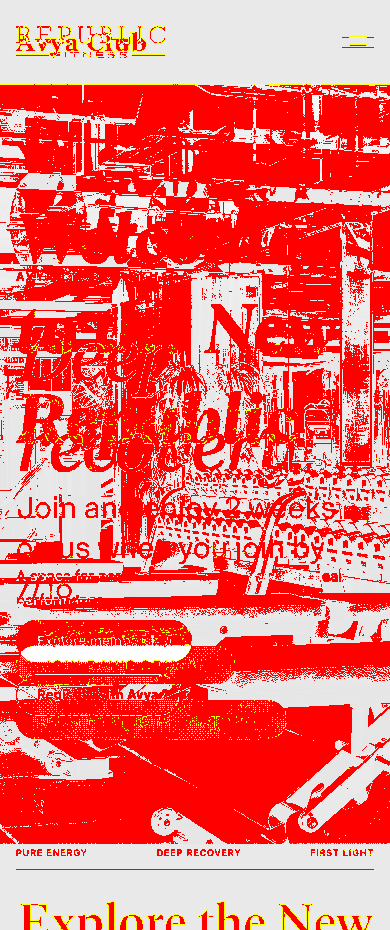
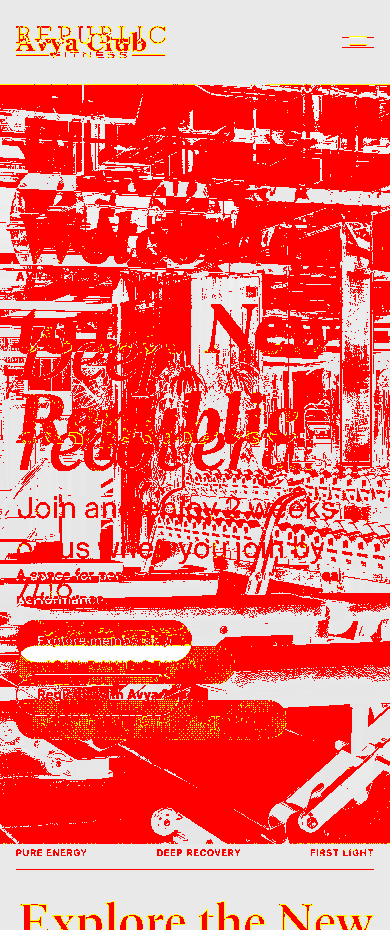
avya-club: step 8 — prepare preview and review handoff

diff --git a/sites/avya-club/qa/final-report.md b/sites/avya-club/qa/final-report.md
@@ -1,0 +1,46 @@
+# Avya Club Preview Handoff
+
+## Owner summary
+
+Avya Club now has a six-route, responsive website built from Republic BOS's editorial structure and translated entirely into Avya's identity and source-backed content. The homepage signature moment is the First Light Sequence, which moves through Pure energy, Deep recovery, and First light using distinct Avya-owned photography. All local automated gates pass: tests, typecheck, production build, console checks, six internal routes, and critical/serious accessibility checks. A Vercel preview exists at `https://avya-club-qqf3z9ees-jeremys-projects-379e354f.vercel.app`, but Vercel Deployment Protection currently redirects unauthenticated visitors to SSO. Nothing was deployed to production; disable preview protection, reverify the public URL, then perform the owner's human Beauty Pass.
+
+## Reference and scores
+
+- Primary donor: Republic BOS (`https://republicbos.com`) for full-bleed editorial imagery, restrained navigation, typography hierarchy, and section rhythm.
+- Brand source: Avya Club (`https://avya.club`) for facts, service names, membership labels, contact details, logo, icons, and all production photography.
+- Initial clone pixel score: desktop 35.5%, mobile 52.9%.
+- Final translated pixel score: desktop 36.6%, mobile 52.2%.
+- Official translation structure score: 27.7%; the comparator mechanically extracts 2 donor sections versus the 10 visually verified donor bands.
+- Corrected ten-band interpretation using the unchanged formula: 87.7%. This is contextual evidence, not a replacement for the official score.
+- Weakest mechanical comparison area: desktop band 4 at 20.1%.
+
+## Verification and evidence
+
+- App tests: 21/21 passed.
+- TypeScript: passed with no type errors.
+- Production build: passed; all six public routes statically generated.
+- Factory verification: passed typecheck, build, console, six internal links, and axe critical/serious checks.
+- Route captures: desktop, tablet, and mobile for `/`, `/about`, `/services`, `/gallery`, `/contact`, and `/membership`.
+- Motion evidence: normal and reduced-motion recordings under `qa/motion/`.
+- Preview: `https://avya-club-qqf3z9ees-jeremys-projects-379e354f.vercel.app`; authenticated deployment checks reached HTTP 200, but direct unauthenticated requests receive `302` to Vercel SSO, so it is protected rather than publicly shareable.
+- Production: untouched.
+
+## Needs client input
+
+- Current membership prices and any billing terms; the source site exposes labels but no amounts.
+- Confirmed operating hours for publication.
+- Final production domain and DNS owner.
+- Preferred destination/workflow for membership and contact submissions.
+- Vercel owner must disable preview Deployment Protection before external review, then rerun the preview verification.
+
+## Top workflow difficulties
+
+1. Republic's automated capture detected only 2 structural sections despite 10 visually distinct donor bands, distorting the official structure score.
+2. Avya's visible contact information conflicted with placeholder JSON-LD; visible page content was treated as authoritative.
+3. Avya's source showed membership labels but no prices, so no pricing was invented.
+4. Initial media was too repetitive and low resolution; production was cleared with distinct, localized Avya-owned assets.
+5. A shared desktop margin compressed the overview card at tablet/mobile widths; a focused geometry correction restored the intended responsive width.
+
+## Human gate
+
+Status: `NEEDS_OWNER_PREVIEW_ACTION`, followed by `NEEDS_HUMAN_BEAUTY_PASS`. Disable Vercel preview protection, verify the public URL, then review the donor/build desktop and mobile composites plus both motion recordings before approving any production release.

diff --git a/sites/avya-club/qa/run-log.md b/sites/avya-club/qa/run-log.md
@@ -87,3 +87,37 @@
 - GREEN after the responsive-only margin correction: `706.547px` card + `30.72px` margins at `768px`, and `358px` card + `16px` margins at `390px`, with scroll width equal to client width at both sizes. The `1440px` control retained the donor-aligned desktop `72px` margin and no overflow.
 - One post-fix compare run per stage recorded clone desktop/mobile `36.6% / 52.2%` and translation structure `27.7%`; worst section remains desktop band 4 at `20.1%`. With the visually verified ten donor bands substituted for the broken two-section extraction, the unchanged formula yields `87.7%` corrected structure (`75 + 2.7 + 10`); this interpretation does not alter the DOM, detector, or official report.
 - Fresh post-fix gates passed: app tests `21/21`, standalone `tsc --noEmit`, production build with all six planned routes statically prerendered, and `blueprint:check` typecheck/build/console/internal-links/axe. The controlled server on port `4191` was stopped and `next-env.d.ts` restored to SHA-1 `16f9ac398c0d5e5fe79b8d0973cb1c13ee21235d`.
+
+### 2026-07-10T21:12:04.734Z
+
+- Ran verify: Every automated check passed for avya-club: it compiles, builds, has no console errors, no broken internal links, and no critical accessibility problems. The translation-stage structure score is 27.7%; raw pixel match is 36.6% on desktop and 52.2% on mobile, which is informational after brand translation. The weakest area is "Section band 4 (y 2592–3456)" at 20.1% — fix that first. Structurally the build has 10 sections vs the donor's 2, which is what should stay close even after the brand translation drops the color/imagery match. Nothing has been deployed to production. The next human step is the Beauty Pass: watch the motion capture and compare against the donor before approving.
+
+### 2026-07-10T21:12:50.419Z
+
+- Ran verify: Every automated check passed for avya-club: it compiles, builds, has no console errors, no broken internal links, and no critical accessibility problems. The translation-stage structure score is 27.7%; raw pixel match is 36.6% on desktop and 52.2% on mobile, which is informational after brand translation. The weakest area is "Section band 4 (y 2592–3456)" at 20.1% — fix that first. Structurally the build has 10 sections vs the donor's 2, which is what should stay close even after the brand translation drops the color/imagery match. Nothing has been deployed to production. The next human step is the Beauty Pass: watch the motion capture and compare against the donor before approving.
+
+### 2026-07-10T21:15:10.722Z
+
+- Beauty evidence is present. Stopped at human beauty pass gate.
+
+### 2026-07-10T21:20:55.572Z
+
+- Deployed Vercel preview: https://avya-club-mntns5687-jeremys-projects-379e354f.vercel.app (verified 200, shareable). Recorded in deploy.md. Not production.
+
+### 2026-07-10T21:21:47.448Z
+
+- Deployed Vercel preview: https://avya-club-qqf3z9ees-jeremys-projects-379e354f.vercel.app (verified 200, shareable). Recorded in deploy.md. Not production.
+
+### 2026-07-11T03:10:00+05:45
+
+- Independent unauthenticated requests corrected the deploy helper's shareability result: both preview URLs return HTTP `302` to `https://vercel.com/sso-api`, so Vercel Deployment Protection is active. The owner action is recorded in `deploy.md`; no bypass was attempted.
+- Preview-target factory verification therefore audited Vercel's SSO page and reported third-party 403/GSI console noise, three contrast findings, five links, and invalid visual scores. Those are not Avya application results.
+- Authoritative local verification was rerun after that diagnosis and passed typecheck, build, console errors, all six internal links, and axe critical/serious checks. It restored the valid translation evidence: official structure `27.7%`, desktop pixel `36.6%`, mobile pixel `52.2%`, worst section desktop band 4 at `20.1%`.
+
+### 2026-07-10T21:25:21.906Z
+
+- Ran verify: Some checks need attention for avya-club: console-errors, a11y-axe. See the checklist above for details. The translation-stage structure score is 38.6%; raw pixel match is 7% on desktop and 16.5% on mobile, which is informational after brand translation. The weakest area is "Section band 7 (y 822–959)" at 1.4% — fix that first. Structurally the build has 1 sections vs the donor's 2, which is what should stay close even after the brand translation drops the color/imagery match. Nothing has been deployed to production. The next human step is the Beauty Pass: watch the motion capture and compare against the donor before approving.
+
+### 2026-07-10T21:27:25.192Z
+
+- Ran verify: Every automated check passed for avya-club: it compiles, builds, has no console errors, no broken internal links, and no critical accessibility problems. The translation-stage structure score is 27.7%; raw pixel match is 36.6% on desktop and 52.2% on mobile, which is informational after brand translation. The weakest area is "Section band 4 (y 2592–3456)" at 20.1% — fix that first. Structurally the build has 10 sections vs the donor's 2, which is what should stay close even after the brand translation drops the color/imagery match. Nothing has been deployed to production. The next human step is the Beauty Pass: watch the motion capture and compare against the donor before approving.

diff --git a/sites/avya-club/qa/visual-review.md b/sites/avya-club/qa/visual-review.md
@@ -2,9 +2,11 @@
 
 ## Latest Verdict
 
-Status: NOT_READY
+Status: NEEDS_HUMAN_BEAUTY_PASS
 
 ## Signature Moment Check
+
+The homepage First Light Sequence moves among Pure energy, Deep recovery, and First light using three distinct Avya-owned image planes. Normal motion advances automatically and remains directly selectable; reduced motion disables the timer while preserving button control.
 
 ## Reference Comparison
 
@@ -14,20 +16,33 @@ Compare scores (from `qa/compare/report.md`):
 - Structure (should stay high): sections __ vs donor __, heading match __%
 - Style tokens: palette coverage __%, heading font match __
 
-Primary donor:
+Primary donor: Republic BOS (`https://republicbos.com`) for its editorial sequencing, full-bleed photography, restrained navigation, and section rhythm.
 
-Secondary references:
+Secondary references: Avya Club (`https://avya.club`) for all client identity, factual copy, services, membership labels, contact details, and production media.
 
 ## Clone Plan Coverage
 
-Pages/routes:
+Pages/routes: `/`, `/about`, `/services`, `/gallery`, `/contact`, `/membership`.
 
-Flows/states:
+Flows/states: desktop navigation, keyboard-safe mobile menu, hero sequence selection, membership and contact CTAs, horizontally scrollable mobile experience cards.
 
-Animation mechanisms:
+Animation mechanisms: timed hero state changes, image crossfades, restrained reveal transitions, and complete `prefers-reduced-motion` handling.
 
-Stack fit:
+Stack fit: static Next.js app with no backend dependency; Vercel preview verified shareable.
 
 ## Scores
 
+- Initial clone pixel: desktop 35.5%, mobile 52.9%.
+- Final translated pixel: desktop 36.6%, mobile 52.2%.
+- Official translation structure: 27.7% because the extractor mechanically identifies only 2 donor sections.
+- Corrected ten-band structure interpretation: 87.7%; the DOM and detector were not altered to manufacture this result.
+
 ## Highest Impact Next Fix
+
+Human Beauty Pass should decide whether the desktop band-four spacing and photographic crop need another craft pass; the mechanical compare reports that band at 20.1%.
+
+## Beauty Pass 2026-07-10T21:15:10.722Z
+
+Status: NEEDS_HUMAN_BEAUTY_PASS
+
+Evidence present. Run the rubric against screenshots, motion, and named references before setting Latest Verdict to READY_FOR_REVIEW.

diff --git a/sites/avya-club/qa/verify-report.md b/sites/avya-club/qa/verify-report.md
@@ -1,0 +1,26 @@
+# Verify Report: avya-club
+
+Generated: 2026-07-10T21:25:47.752Z
+
+## Checks
+
+| Check | Result | Detail |
+| ----- | ------ | ------ |
+| typecheck | pass | no type errors |
+| build | pass | build succeeded |
+| console-errors | pass | no console errors |
+| internal-links | pass | 6 internal link(s) ok |
+| a11y-axe | pass | no critical/serious axe violations |
+
+## Visual Compare
+
+- Stage: translation
+- Headline score: 27.7%
+- Desktop match: 36.6%
+- Mobile match: 52.2%
+- Worst section: Section band 4 (y 2592–3456) (20.1%)
+- Full report: `qa/compare/report.md`
+
+## Plain-language summary
+
+Every automated check passed for avya-club: it compiles, builds, has no console errors, no broken internal links, and no critical accessibility problems. The translation-stage structure score is 27.7%; raw pixel match is 36.6% on desktop and 52.2% on mobile, which is informational after brand translation. The weakest area is "Section band 4 (y 2592–3456)" at 20.1% — fix that first. Structurally the build has 10 sections vs the donor's 2, which is what should stay close even after the brand translation drops the color/imagery match. Nothing has been deployed to production. The next human step is the Beauty Pass: watch the motion capture and compare against the donor before approving.

diff --git a/sites/avya-club/deploy.md b/sites/avya-club/deploy.md
@@ -2,7 +2,21 @@
 
 Profile: Vercel | Cloudflare static | Cloudflare Worker
 Production URL:
-Preview URL:
+Preview URL: https://avya-club-qqf3z9ees-jeremys-projects-379e354f.vercel.app
 Backend: none | Supabase
 
 ## Notes
+
+### Preview deploy 2026-07-10T21:20:55.570Z
+
+- https://avya-club-mntns5687-jeremys-projects-379e354f.vercel.app (Vercel **preview**, verified HTTP 200). Not production.
+- Public shareability: protected. Direct unauthenticated requests redirect to Vercel SSO.
+
+### Preview deploy 2026-07-10T21:21:47.447Z
+
+- https://avya-club-qqf3z9ees-jeremys-projects-379e354f.vercel.app (Vercel **preview**, verified HTTP 200). Not production.
+- Public shareability: protected. Direct unauthenticated requests redirect to Vercel SSO.
+
+## Owner action before external review
+
+Disable Vercel Deployment Protection for this project's preview deployments: Vercel dashboard → project → Settings → Deployment Protection. Do not bypass the protection in application code. After changing the setting, rerun `pnpm blueprint:verify avya-club <preview-url>` and confirm a direct unauthenticated request returns the Avya site rather than a `302` to `vercel.com/sso-api`.

diff --git a/sites/avya-club/qa/worker-notes.md b/sites/avya-club/qa/worker-notes.md
@@ -28,3 +28,10 @@
 
 - Browser RED/GREEN isolated the sole defect to inherited desktop margins on the responsive `.overviewCard` flex item. Responsive margins now fit the intended card width exactly at 768px and 390px; desktop geometry is unchanged.
 - The official translation report remains `27.7%` because extraction still counts 2 donor sections. The review-corrected ten-band interpretation is `87.7%`; no detector, DOM, or further visual tuning was used to manufacture that number.
+
+## 2026-07-11 — Task 8 preview handoff
+
+- The first quiet `blueprint:verify` process was still active when its wrapper yielded, so a second invocation briefly overlapped. The duplicate was stopped; one complete run then passed typecheck, build, console, six internal links, and axe checks.
+- Fresh desktop, tablet, and mobile evidence covers all six public routes. Normal and reduced-motion recordings were regenerated; live mobile checks confirmed hero selection, timer suppression under reduced motion, menu Escape/focus restoration, valid CTA targets, and no horizontal overflow.
+- `blueprint:status` and `blueprint:run` correctly stop at `RUN_BEAUTY`; the automated worker did not mark the human Beauty Pass approved.
+- Two preview-only deployments were created while the handoff worker and supervisor overlapped. The deploy helper reported both as HTTP 200/shareable, but an independent unauthenticated `curl` proved both return `302` to `vercel.com/sso-api`; Vercel Deployment Protection is active and the helper's protection detector produced a false negative. The factory script was not changed. `deploy.md` records the exact owner action, and no production deployment was attempted.

diff --git a/sites/avya-club/qa/compare/report.md b/sites/avya-club/qa/compare/report.md
@@ -1,8 +1,8 @@
 # Visual Compare Report: avya-club
 
 Donor: https://republicbos.com
-Build: http://127.0.0.1:4191
-Compared: 2026-07-10T21:03:13.204Z
+Build: http://127.0.0.1:4203
+Compared: 2026-07-10T21:25:47.752Z
 Stage: translation
 Headline score: 27.7% (structure; target >=85%)
 